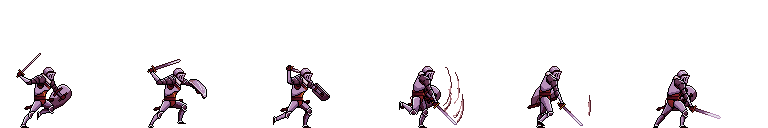
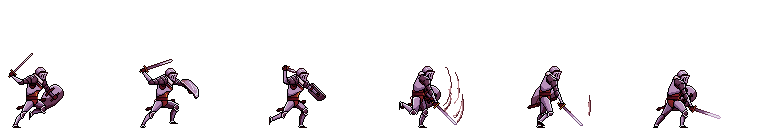
Review tuning: slow attack anims (fps 12->8/10), re-export gorgon/knight art
Visual-review pass over the explicit enemy roster:
- attack frame rates 12 -> 8 or 10 (and playerWalk 12 -> 10) so swings read clearly
- re-export gorgon 1/2/3 idle+attack and knight 1/2/3 walk+attack art
- drop now-unneeded forwardPx nudges on gorgon idle/attack (the re-exported art is centred)

Claude-Session: https://claude.ai/code/session_01GGDuKufsvQE8QdpiKXCWnN

Changed region(s): [[0.0, 0.4062, 0.0938, 1.0], [0.1562, 0.4688, 0.2812, 1.0], [0.3438, 0.5, 0.4375, 1.0]]

diff --git a/src/core/assets/registry.ts b/src/core/assets/registry.ts
@@ -43,7 +43,7 @@ export const GAME_ASSETS: readonly AssetDescriptor[] = [
   asset(AssetKeys.world1Floor, [32, 32], 'top-down stone/grass', 'Walkable floor tile'),
   asset(AssetKeys.world1Wall, [32, 32], 'solid rock, dark outline', 'Non-walkable obstacle'),
   asset(AssetKeys.playerIdle, [128, 128, 0.5], 'anime fox-girl, right-facing', 'Player idle', { frameCount: 6, fps: 6, downPx: -6 }),
-  asset(AssetKeys.playerWalk, [128, 128, 0.5], 'same character, right-facing', 'Player walk', { frameCount: 8, fps: 12, downPx: -6 }),
+  asset(AssetKeys.playerWalk, [128, 128, 0.5], 'same character, right-facing', 'Player walk', { frameCount: 8, fps: 10, downPx: -6 }),
   asset(AssetKeys.playerReady, [128, 128, 0.5], 'same character, card-ready stance, right-facing', 'Player ready/card stance', { frameCount: 2, fps: 6, downPx: -6, forwardPx: 8 }),
   asset(AssetKeys.playerAttack1, [128, 128, 0.5], 'same character, attack A, right-facing', 'Player attack variant 1', { frameCount: 3, fps: 8, downPx: -6, forwardPx: 8 }),
   asset(AssetKeys.playerAttack2, [128, 128, 0.5], 'same character, attack B, right-facing', 'Player attack variant 2', { frameCount: 7, fps: 12, downPx: -6 }),
@@ -73,140 +73,140 @@ export const GAME_ASSETS: readonly AssetDescriptor[] = [
   // copper_golem
   asset(AssetKeys.copperGolemIdle, [128, 128, 0.5], 'copper_golem idle', 'Enemy copper_golem idle', { frameCount: 6, fps: 6, downPx: -6, forwardPx: 4 }),
   asset(AssetKeys.copperGolemWalk, [128, 128, 0.5], 'copper_golem walk', 'Enemy copper_golem walk', { frameCount: 8, fps: 10, downPx: -6, forwardPx: 4 }),
-  asset(AssetKeys.copperGolemAttack, [128, 128, 0.5], 'copper_golem attack', 'Enemy copper_golem attack', { frameCount: 7, fps: 12, downPx: -6, forwardPx: 4 }),
+  asset(AssetKeys.copperGolemAttack, [128, 128, 0.5], 'copper_golem attack', 'Enemy copper_golem attack', { frameCount: 7, fps: 10, downPx: -6, forwardPx: 4 }),
   asset(AssetKeys.copperGolemHurt, [128, 128, 0.5], 'copper_golem hurt', 'Enemy copper_golem hurt'),
   asset(AssetKeys.copperGolemDeath, [128, 128, 0.5], 'copper_golem death', 'Enemy copper_golem death'),
 
   // demon_2
   asset(AssetKeys.demon2Idle, [128, 128, 0.5], 'demon_2 idle', 'Enemy demon_2 idle', { frameCount: 6, fps: 6, downPx: -6 }),
   asset(AssetKeys.demon2Walk, [128, 128, 0.5], 'demon_2 walk', 'Enemy demon_2 walk', { frameCount: 12, fps: 10, downPx: -6 }),
-  asset(AssetKeys.demon2Attack, [128, 128, 0.5], 'demon_2 attack', 'Enemy demon_2 attack', { frameCount: 5, fps: 12, downPx: -6 }),
+  asset(AssetKeys.demon2Attack, [128, 128, 0.5], 'demon_2 attack', 'Enemy demon_2 attack', { frameCount: 5, fps: 8, downPx: -6 }),
   asset(AssetKeys.demon2Hurt, [128, 128, 0.5], 'demon_2 hurt', 'Enemy demon_2 hurt'),
   asset(AssetKeys.demon2Death, [128, 128, 0.5], 'demon_2 death', 'Enemy demon_2 death'),
 
   // demon_3
   asset(AssetKeys.demon3Idle, [128, 128, 0.5], 'demon_3 idle', 'Enemy demon_3 idle', { frameCount: 6, fps: 6, downPx: -6 }),
   asset(AssetKeys.demon3Walk, [128, 128, 0.5], 'demon_3 walk', 'Enemy demon_3 walk', { frameCount: 12, fps: 10, downPx: -6 }),
-  asset(AssetKeys.demon3Attack, [128, 128, 0.5], 'demon_3 attack', 'Enemy demon_3 attack', { frameCount: 5, fps: 12, downPx: -6 }),
+  asset(AssetKeys.demon3Attack, [128, 128, 0.5], 'demon_3 attack', 'Enemy demon_3 attack', { frameCount: 5, fps: 10, downPx: -6 }),
   asset(AssetKeys.demon3Hurt, [128, 128, 0.5], 'demon_3 hurt', 'Enemy demon_3 hurt'),
   asset(AssetKeys.demon3Death, [128, 128, 0.5], 'demon_3 death', 'Enemy demon_3 death'),
 
   // dragon_1
   asset(AssetKeys.dragon1Idle, [256, 256, 0.5], 'dragon_1 idle', 'Enemy dragon_1 idle', { frameCount: 8, fps: 6, downPx: -16 }),
   asset(AssetKeys.dragon1Walk, [256, 256, 0.5], 'dragon_1 walk', 'Enemy dragon_1 walk', { frameCount: 12, fps: 10, downPx: -16, forwardPx: 6 }),
-  asset(AssetKeys.dragon1Attack, [256, 256, 0.5], 'dragon_1 attack', 'Enemy dragon_1 attack', { frameCount: 10, fps: 12, downPx: -16, forwardPx: 18 }),
+  asset(AssetKeys.dragon1Attack, [256, 256, 0.5], 'dragon_1 attack', 'Enemy dragon_1 attack', { frameCount: 10, fps: 10, downPx: -16, forwardPx: 18 }),
   asset(AssetKeys.dragon1Hurt, [256, 256, 0.5], 'dragon_1 hurt', 'Enemy dragon_1 hurt'),
   asset(AssetKeys.dragon1Death, [256, 256, 0.5], 'dragon_1 death', 'Enemy dragon_1 death'),
 
   // dragon_2
   asset(AssetKeys.dragon2Idle, [256, 256, 0.5], 'dragon_2 idle', 'Enemy dragon_2 idle', { frameCount: 8, fps: 6, downPx: -16 }),
   asset(AssetKeys.dragon2Walk, [256, 256, 0.5], 'dragon_2 walk', 'Enemy dragon_2 walk', { frameCount: 12, fps: 10, downPx: -16, forwardPx: 6 }),
-  asset(AssetKeys.dragon2Attack, [256, 256, 0.5], 'dragon_2 attack', 'Enemy dragon_2 attack', { frameCount: 10, fps: 12, downPx: -16, forwardPx: 18 }),
+  asset(AssetKeys.dragon2Attack, [256, 256, 0.5], 'dragon_2 attack', 'Enemy dragon_2 attack', { frameCount: 10, fps: 10, downPx: -16, forwardPx: 18 }),
   asset(AssetKeys.dragon2Hurt, [256, 256, 0.5], 'dragon_2 hurt', 'Enemy dragon_2 hurt'),
   asset(AssetKeys.dragon2Death, [256, 256, 0.5], 'dragon_2 death', 'Enemy dragon_2 death'),
 
   // dragon_3
   asset(AssetKeys.dragon3Idle, [256, 256, 0.5], 'dragon_3 idle', 'Enemy dragon_3 idle', { frameCount: 8, fps: 6, downPx: -16 }),
   asset(AssetKeys.dragon3Walk, [256, 256, 0.5], 'dragon_3 walk', 'Enemy dragon_3 walk', { frameCount: 12, fps: 10, downPx: -16, forwardPx: 6 }),
-  asset(AssetKeys.dragon3Attack, [256, 256, 0.5], 'dragon_3 attack', 'Enemy dragon_3 attack', { frameCount: 10, fps: 12, downPx: -16, forwardPx: 18 }),
+  asset(AssetKeys.dragon3Attack, [256, 256, 0.5], 'dragon_3 attack', 'Enemy dragon_3 attack', { frameCount: 10, fps: 10, downPx: -16, forwardPx: 18 }),
   asset(AssetKeys.dragon3Hurt, [256, 256, 0.5], 'dragon_3 hurt', 'Enemy dragon_3 hurt'),
   asset(AssetKeys.dragon3Death, [256, 256, 0.5], 'dragon_3 death', 'Enemy dragon_3 death'),
 
   // elf_queen_1
   asset(AssetKeys.elfQueen1Idle, [128, 128, 0.5], 'elf_queen_1 idle', 'Enemy elf_queen_1 idle', { frameCount: 7, fps: 6, downPx: -6 }),
   asset(AssetKeys.elfQueen1Walk, [128, 128, 0.5], 'elf_queen_1 walk', 'Enemy elf_queen_1 walk', { frameCount: 12, fps: 10, downPx: -6 }),
-  asset(AssetKeys.elfQueen1Attack, [128, 128, 0.5], 'elf_queen_1 attack', 'Enemy elf_queen_1 attack', { frameCount: 14, fps: 12, downPx: -6 }),
+  asset(AssetKeys.elfQueen1Attack, [128, 128, 0.5], 'elf_queen_1 attack', 'Enemy elf_queen_1 attack', { frameCount: 14, fps: 8, downPx: -6 }),
   asset(AssetKeys.elfQueen1Hurt, [128, 128, 0.5], 'elf_queen_1 hurt', 'Enemy elf_queen_1 hurt'),
   asset(AssetKeys.elfQueen1Death, [128, 128, 0.5], 'elf_queen_1 death', 'Enemy elf_queen_1 death'),
 
   // elf_queen_2
   asset(AssetKeys.elfQueen2Idle, [128, 128, 0.5], 'elf_queen_2 idle', 'Enemy elf_queen_2 idle', { frameCount: 6, fps: 6, downPx: -2 }),
   asset(AssetKeys.elfQueen2Walk, [128, 128, 0.5], 'elf_queen_2 walk', 'Enemy elf_queen_2 walk', { frameCount: 5, fps: 10, downPx: 0 }),
-  asset(AssetKeys.elfQueen2Attack, [128, 128, 0.5], 'elf_queen_2 attack', 'Enemy elf_queen_2 attack', { frameCount: 6, fps: 12, downPx: -2, forwardPx: 4 }),
+  asset(AssetKeys.elfQueen2Attack, [128, 128, 0.5], 'elf_queen_2 attack', 'Enemy elf_queen_2 attack', { frameCount: 6, fps: 10, downPx: -2, forwardPx: 4 }),
   asset(AssetKeys.elfQueen2Hurt, [128, 128, 0.5], 'elf_queen_2 hurt', 'Enemy elf_queen_2 hurt'),
   asset(AssetKeys.elfQueen2Death, [128, 128, 0.5], 'elf_queen_2 death', 'Enemy elf_queen_2 death'),
 
   // goblin_1
   asset(AssetKeys.goblin1Idle, [128, 128, 0.5], 'goblin_1 idle', 'Enemy goblin_1 idle', { frameCount: 6, fps: 6, downPx: -6 }),
   asset(AssetKeys.goblin1Walk, [128, 128, 0.5], 'goblin_1 walk', 'Enemy goblin_1 walk', { frameCount: 8, fps: 10, downPx: -6 }),
-  asset(AssetKeys.goblin1Attack, [128, 128, 0.5], 'goblin_1 attack', 'Enemy goblin_1 attack', { frameCount: 6, fps: 12, downPx: -6, forwardPx: 4 }),
+  asset(AssetKeys.goblin1Attack, [128, 128, 0.5], 'goblin_1 attack', 'Enemy goblin_1 attack', { frameCount: 6, fps: 10, downPx: -6, forwardPx: 4 }),
   asset(AssetKeys.goblin1Hurt, [128, 128, 0.5], 'goblin_1 hurt', 'Enemy goblin_1 hurt'),
   asset(AssetKeys.goblin1Death, [128, 128, 0.5], 'goblin_1 death', 'Enemy goblin_1 death'),
 
   // goblin_2
   asset(AssetKeys.goblin2Idle, [128, 128, 0.5], 'goblin_2 idle', 'Enemy goblin_2 idle', { frameCount: 6, fps: 6, downPx: -6 }),
   asset(AssetKeys.goblin2Walk, [128, 128, 0.5], 'goblin_2 walk', 'Enemy goblin_2 walk', { frameCount: 8, fps: 10, downPx: -6 }),
-  asset(AssetKeys.goblin2Attack, [128, 128, 0.5], 'goblin_2 attack', 'Enemy goblin_2 attack', { frameCount: 7, fps: 12, downPx: -6, forwardPx: -4 }),
+  asset(AssetKeys.goblin2Attack, [128, 128, 0.5], 'goblin_2 attack', 'Enemy goblin_2 attack', { frameCount: 7, fps: 10, downPx: -6, forwardPx: -4 }),
   asset(AssetKeys.goblin2Hurt, [128, 128, 0.5], 'goblin_2 hurt', 'Enemy goblin_2 hurt'),
   asset(AssetKeys.goblin2Death, [128, 128, 0.5], 'goblin_2 death', 'Enemy goblin_2 death'),
 
   // goblin_3
   asset(AssetKeys.goblin3Idle, [128, 128, 0.5], 'goblin_3 idle', 'Enemy goblin_3 idle', { frameCount: 6, fps: 6, downPx: -6 }),
   asset(AssetKeys.goblin3Walk, [128, 128, 0.5], 'goblin_3 walk', 'Enemy goblin_3 walk', { frameCount: 7, fps: 10, downPx: -6 }),
-  asset(AssetKeys.goblin3Attack, [128, 128, 0.5], 'goblin_3 attack', 'Enemy goblin_3 attack', { frameCount: 6, fps: 12, downPx: -6 }),
+  asset(AssetKeys.goblin3Attack, [128, 128, 0.5], 'goblin_3 attack', 'Enemy goblin_3 attack', { frameCount: 6, fps: 10, downPx: -6 }),
   asset(AssetKeys.goblin3Hurt, [128, 128, 0.5], 'goblin_3 hurt', 'Enemy goblin_3 hurt'),
   asset(AssetKeys.goblin3Death, [128, 128, 0.5], 'goblin_3 death', 'Enemy goblin_3 death'),
 
   // gorgon_1
-  asset(AssetKeys.gorgon1Idle, [128, 128, 0.5], 'gorgon_1 idle', 'Enemy gorgon_1 idle', { frameCount: 7, fps: 6, downPx: -6, forwardPx: 6 }),
+  asset(AssetKeys.gorgon1Idle, [128, 128, 0.5], 'gorgon_1 idle', 'Enemy gorgon_1 idle', { frameCount: 7, fps: 6, downPx: -6 }),
   asset(AssetKeys.gorgon1Walk, [128, 128, 0.5], 'gorgon_1 walk', 'Enemy gorgon_1 walk', { frameCount: 7, fps: 10, downPx: -6 }),
-  asset(AssetKeys.gorgon1Attack, [128, 128, 0.5], 'gorgon_1 attack', 'Enemy gorgon_1 attack', { frameCount: 7, fps: 12, downPx: -6, forwardPx: -2 }),
+  asset(AssetKeys.gorgon1Attack, [128, 128, 0.5], 'gorgon_1 attack', 'Enemy gorgon_1 attack', { frameCount: 7, fps: 10, downPx: -6 }),
   asset(AssetKeys.gorgon1Hurt, [128, 128, 0.5], 'gorgon_1 hurt', 'Enemy gorgon_1 hurt'),
   asset(AssetKeys.gorgon1Death, [128, 128, 0.5], 'gorgon_1 death', 'Enemy gorgon_1 death'),
 
   // gorgon_2
   asset(AssetKeys.gorgon2Idle, [128, 128, 0.5], 'gorgon_2 idle', 'Enemy gorgon_2 idle', { frameCount: 7, fps: 6, downPx: -6 }),
   asset(AssetKeys.gorgon2Walk, [128, 128, 0.5], 'gorgon_2 walk', 'Enemy gorgon_2 walk', { frameCount: 7, fps: 10, downPx: -6 }),
-  asset(AssetKeys.gorgon2Attack, [128, 128, 0.5], 'gorgon_2 attack', 'Enemy gorgon_2 attack', { frameCount: 7, fps: 12, downPx: -6, forwardPx: 2 }),
+  asset(AssetKeys.gorgon2Attack, [128, 128, 0.5], 'gorgon_2 attack', 'Enemy gorgon_2 attack', { frameCount: 7, fps: 10, downPx: -6 }),
   asset(AssetKeys.gorgon2Hurt, [128, 128, 0.5], 'gorgon_2 hurt', 'Enemy gorgon_2 hurt'),
   asset(AssetKeys.gorgon2Death, [128, 128, 0.5], 'gorgon_2 death', 'Enemy gorgon_2 death'),
 
   // gorgon_3
-  asset(AssetKeys.gorgon3Idle, [128, 128, 0.5], 'gorgon_3 idle', 'Enemy gorgon_3 idle', { frameCount: 7, fps: 6, downPx: -6, forwardPx: 4 }),
+  asset(AssetKeys.gorgon3Idle, [128, 128, 0.5], 'gorgon_3 idle', 'Enemy gorgon_3 idle', { frameCount: 7, fps: 6, downPx: -6 }),
   asset(AssetKeys.gorgon3Walk, [128, 128, 0.5], 'gorgon_3 walk', 'Enemy gorgon_3 walk', { frameCount: 7, fps: 10, downPx: -6 }),
-  asset(AssetKeys.gorgon3Attack, [128, 128, 0.5], 'gorgon_3 attack', 'Enemy gorgon_3 attack', { frameCount: 7, fps: 12, downPx: -6, forwardPx: -4 }),
+  asset(AssetKeys.gorgon3Attack, [128, 128, 0.5], 'gorgon_3 attack', 'Enemy gorgon_3 attack', { frameCount: 7, fps: 10, downPx: -6 }),
   asset(AssetKeys.gorgon3Hurt, [128, 128, 0.5], 'gorgon_3 hurt', 'Enemy gorgon_3 hurt'),
   asset(AssetKeys.gorgon3Death, [128, 128, 0.5], 'gorgon_3 death', 'Enemy gorgon_3 death'),
 
   // knight_1
-  asset(AssetKeys.knight1Idle, [128, 128, 0.5], 'knight_1 idle', 'Enemy knight_1 idle', { frameCount: 4, fps: 6, downPx: -6, forwardPx: 16 }),
+  asset(AssetKeys.knight1Idle, [128, 128, 0.5], 'knight_1 idle', 'Enemy knight_1 idle', { frameCount: 4, fps: 4, downPx: -6, forwardPx: 16 }),
   asset(AssetKeys.knight1Walk, [128, 128, 0.5], 'knight_1 walk', 'Enemy knight_1 walk', { frameCount: 8, fps: 10, downPx: -6, forwardPx: 16 }),
-  asset(AssetKeys.knight1Attack, [128, 128, 0.5], 'knight_1 attack', 'Enemy knight_1 attack', { frameCount: 6, fps: 12, downPx: -6, forwardPx: 14 }),
+  asset(AssetKeys.knight1Attack, [128, 128, 0.5], 'knight_1 attack', 'Enemy knight_1 attack', { frameCount: 6, fps: 8, downPx: -6, forwardPx: 14 }),
   asset(AssetKeys.knight1Hurt, [128, 128, 0.5], 'knight_1 hurt', 'Enemy knight_1 hurt'),
   asset(AssetKeys.knight1Death, [128, 128, 0.5], 'knight_1 death', 'Enemy knight_1 death'),
 
   // knight_2
-  asset(AssetKeys.knight2Idle, [128, 128, 0.5], 'knight_2 idle', 'Enemy knight_2 idle', { frameCount: 4, fps: 6, downPx: -6, forwardPx: 16 }),
+  asset(AssetKeys.knight2Idle, [128, 128, 0.5], 'knight_2 idle', 'Enemy knight_2 idle', { frameCount: 4, fps: 4, downPx: -6, forwardPx: 16 }),
   asset(AssetKeys.knight2Walk, [128, 128, 0.5], 'knight_2 walk', 'Enemy knight_2 walk', { frameCount: 8, fps: 10, downPx: -6, forwardPx: 16 }),
-  asset(AssetKeys.knight2Attack, [128, 128, 0.5], 'knight_2 attack', 'Enemy knight_2 attack', { frameCount: 6, fps: 12, downPx: -6, forwardPx: 14 }),
+  asset(AssetKeys.knight2Attack, [128, 128, 0.5], 'knight_2 attack', 'Enemy knight_2 attack', { frameCount: 6, fps: 8, downPx: -6, forwardPx: 14 }),
   asset(AssetKeys.knight2Hurt, [128, 128, 0.5], 'knight_2 hurt', 'Enemy knight_2 hurt'),
   asset(AssetKeys.knight2Death, [128, 128, 0.5], 'knight_2 death', 'Enemy knight_2 death'),
 
   // knight_3
-  asset(AssetKeys.knight3Idle, [128, 128, 0.5], 'knight_3 idle', 'Enemy knight_3 idle', { frameCount: 4, fps: 6, downPx: -6, forwardPx: 16 }),
+  asset(AssetKeys.knight3Idle, [128, 128, 0.5], 'knight_3 idle', 'Enemy knight_3 idle', { frameCount: 4, fps: 4, downPx: -6, forwardPx: 16 }),
   asset(AssetKeys.knight3Walk, [128, 128, 0.5], 'knight_3 walk', 'Enemy knight_3 walk', { frameCount: 8, fps: 10, downPx: -6, forwardPx: 16 }),
-  asset(AssetKeys.knight3Attack, [128, 128, 0.5], 'knight_3 attack', 'Enemy knight_3 attack', { frameCount: 6, fps: 12, downPx: -6, forwardPx: 14 }),
+  asset(AssetKeys.knight3Attack, [128, 128, 0.5], 'knight_3 attack', 'Enemy knight_3 attack', { frameCount: 6, fps: 8, downPx: -6, forwardPx: 14 }),
   asset(AssetKeys.knight3Hurt, [128, 128, 0.5], 'knight_3 hurt', 'Enemy knight_3 hurt'),
   asset(AssetKeys.knight3Death, [128, 128, 0.5], 'knight_3 death', 'Enemy knight_3 death'),
 
   // lava_golem
   asset(AssetKeys.lavaGolemIdle, [128, 128, 0.5], 'lava_golem idle', 'Enemy lava_golem idle', { frameCount: 6, fps: 6, downPx: -6 }),
   asset(AssetKeys.lavaGolemWalk, [128, 128, 0.5], 'lava_golem walk', 'Enemy lava_golem walk', { frameCount: 10, fps: 10, downPx: -6 }),
-  asset(AssetKeys.lavaGolemAttack, [128, 128, 0.5], 'lava_golem attack', 'Enemy lava_golem attack', { frameCount: 7, fps: 12, downPx: -6, forwardPx: 4 }),
+  asset(AssetKeys.lavaGolemAttack, [128, 128, 0.5], 'lava_golem attack', 'Enemy lava_golem attack', { frameCount: 7, fps: 10, downPx: -6, forwardPx: 4 }),
   asset(AssetKeys.lavaGolemHurt, [128, 128, 0.5], 'lava_golem hurt', 'Enemy lava_golem hurt'),
   asset(AssetKeys.lavaGolemDeath, [128, 128, 0.5], 'lava_golem death', 'Enemy lava_golem death'),
 
   // mimic_1
   asset(AssetKeys.mimic1Idle, [128, 128, 0.5], 'mimic_1 idle', 'Enemy mimic_1 idle', { frameCount: 1, fps: 6, downPx: -6, forwardPx: -2 }),
   asset(AssetKeys.mimic1Walk, [128, 128, 0.5], 'mimic_1 walk', 'Enemy mimic_1 walk', { frameCount: 11, fps: 10, downPx: -6 }),
-  asset(AssetKeys.mimic1Attack, [128, 128, 0.5], 'mimic_1 attack', 'Enemy mimic_1 attack', { frameCount: 7, fps: 12, downPx: -6, forwardPx: 4 }),
+  asset(AssetKeys.mimic1Attack, [128, 128, 0.5], 'mimic_1 attack', 'Enemy mimic_1 attack', { frameCount: 7, fps: 10, downPx: -6, forwardPx: 4 }),
   asset(AssetKeys.mimic1Hurt, [128, 128, 0.5], 'mimic_1 hurt', 'Enemy mimic_1 hurt'),
   asset(AssetKeys.mimic1Death, [128, 128, 0.5], 'mimic_1 death', 'Enemy mimic_1 death'),
 
   // mimic_2
   asset(AssetKeys.mimic2Idle, [128, 128, 0.5], 'mimic_2 idle', 'Enemy mimic_2 idle', { frameCount: 1, fps: 6, downPx: -6 }),
   asset(AssetKeys.mimic2Walk, [128, 128, 0.5], 'mimic_2 walk', 'Enemy mimic_2 walk', { frameCount: 9, fps: 10, downPx: -6 }),
-  asset(AssetKeys.mimic2Attack, [128, 128, 0.5], 'mimic_2 attack', 'Enemy mimic_2 attack', { frameCount: 4, fps: 12, downPx: -6, forwardPx: 4 }),
+  asset(AssetKeys.mimic2Attack, [128, 128, 0.5], 'mimic_2 attack', 'Enemy mimic_2 attack', { frameCount: 4, fps: 8, downPx: -6, forwardPx: 4 }),
   asset(AssetKeys.mimic2Hurt, [128, 128, 0.5], 'mimic_2 hurt', 'Enemy mimic_2 hurt'),
   asset(AssetKeys.mimic2Death, [128, 128, 0.5], 'mimic_2 death', 'Enemy mimic_2 death'),
 
@@ -220,49 +220,49 @@ export const GAME_ASSETS: readonly AssetDescriptor[] = [
   // minotaur_1
   asset(AssetKeys.minotaur1Idle, [128, 128, 0.5], 'minotaur_1 idle', 'Enemy minotaur_1 idle', { frameCount: 10, fps: 6, downPx: -6, forwardPx: 2 }),
   asset(AssetKeys.minotaur1Walk, [128, 128, 0.5], 'minotaur_1 walk', 'Enemy minotaur_1 walk', { frameCount: 12, fps: 10, downPx: -6, forwardPx: 2 }),
-  asset(AssetKeys.minotaur1Attack, [128, 128, 0.5], 'minotaur_1 attack', 'Enemy minotaur_1 attack', { frameCount: 5, fps: 12, downPx: -6, forwardPx: 6 }),
+  asset(AssetKeys.minotaur1Attack, [128, 128, 0.5], 'minotaur_1 attack', 'Enemy minotaur_1 attack', { frameCount: 5, fps: 8, downPx: -6, forwardPx: 6 }),
   asset(AssetKeys.minotaur1Hurt, [128, 128, 0.5], 'minotaur_1 hurt', 'Enemy minotaur_1 hurt'),
   asset(AssetKeys.minotaur1Death, [128, 128, 0.5], 'minotaur_1 death', 'Enemy minotaur_1 death'),
 
   // minotaur_2
   asset(AssetKeys.minotaur2Idle, [128, 128, 0.5], 'minotaur_2 idle', 'Enemy minotaur_2 idle', { frameCount: 10, fps: 6, downPx: -6, forwardPx: 2 }),
   asset(AssetKeys.minotaur2Walk, [128, 128, 0.5], 'minotaur_2 walk', 'Enemy minotaur_2 walk', { frameCount: 12, fps: 10, downPx: -6, forwardPx: 2 }),
-  asset(AssetKeys.minotaur2Attack, [128, 128, 0.5], 'minotaur_2 attack', 'Enemy minotaur_2 attack', { frameCount: 5, fps: 12, downPx: -6, forwardPx: 4 }),
+  asset(AssetKeys.minotaur2Attack, [128, 128, 0.5], 'minotaur_2 attack', 'Enemy minotaur_2 attack', { frameCount: 5, fps: 8, downPx: -6, forwardPx: 4 }),
   asset(AssetKeys.minotaur2Hurt, [128, 128, 0.5], 'minotaur_2 hurt', 'Enemy minotaur_2 hurt'),
   asset(AssetKeys.minotaur2Death, [128, 128, 0.5], 'minotaur_2 death', 'Enemy minotaur_2 death'),
 
   // minotaur_3
   asset(AssetKeys.minotaur3Idle, [128, 128, 0.5], 'minotaur_3 idle', 'Enemy minotaur_3 idle', { frameCount: 10, fps: 6, downPx: -6, forwardPx: 2 }),
   asset(AssetKeys.minotaur3Walk, [128, 128, 0.5], 'minotaur_3 walk', 'Enemy minotaur_3 walk', { frameCount: 12, fps: 10, downPx: -6, forwardPx: 2 }),
-  asset(AssetKeys.minotaur3Attack, [128, 128, 0.5], 'minotaur_3 attack', 'Enemy minotaur_3 attack', { frameCount: 4, fps: 12, downPx: -6, forwardPx: 4 }),
+  asset(AssetKeys.minotaur3Attack, [128, 128, 0.5], 'minotaur_3 attack', 'Enemy minotaur_3 attack', { frameCount: 4, fps: 8, downPx: -6, forwardPx: 4 }),
   asset(AssetKeys.minotaur3Hurt, [128, 128, 0.5], 'minotaur_3 hurt', 'Enemy minotaur_3 hurt'),
   asset(AssetKeys.minotaur3Death, [128, 128, 0.5], 'minotaur_3 death', 'Enemy minotaur_3 death'),
 
   // orc_warrior_brown
   asset(AssetKeys.orcWarriorBrownIdle, [128, 128, 0.5], 'orc_warrior_brown idle', 'Enemy orc_warrior_brown idle', { frameCount: 7, fps: 6, downPx: -6 }),
   asset(AssetKeys.orcWarriorBrownWalk, [128, 128, 0.5], 'orc_warrior_brown walk', 'Enemy orc_warrior_brown walk', { frameCount: 8, fps: 10, downPx: -6 }),
-  asset(AssetKeys.orcWarriorBrownAttack, [128, 128, 0.5], 'orc_warrior_brown attack', 'Enemy orc_warrior_brown attack', { frameCount: 5, fps: 12, downPx: -6, forwardPx: -2 }),
+  asset(AssetKeys.orcWarriorBrownAttack, [128, 128, 0.5], 'orc_warrior_brown attack', 'Enemy orc_warrior_brown attack', { frameCount: 5, fps: 8, downPx: -6, forwardPx: -2 }),
   asset(AssetKeys.orcWarriorBrownHurt, [128, 128, 0.5], 'orc_warrior_brown hurt', 'Enemy orc_warrior_brown hurt'),
   asset(AssetKeys.orcWarriorBrownDeath, [128, 128, 0.5], 'orc_warrior_brown death', 'Enemy orc_warrior_brown death'),
 
   // orc_warrior_green
   asset(AssetKeys.orcWarriorGreenIdle, [128, 128, 0.5], 'orc_warrior_green idle', 'Enemy orc_warrior_green idle', { frameCount: 7, fps: 6, downPx: -6 }),
   asset(AssetKeys.orcWarriorGreenWalk, [128, 128, 0.5], 'orc_warrior_green walk', 'Enemy orc_warrior_green walk', { frameCount: 8, fps: 10, downPx: -6 }),
-  asset(AssetKeys.orcWarriorGreenAttack, [128, 128, 0.5], 'orc_warrior_green attack', 'Enemy orc_warrior_green attack', { frameCount: 5, fps: 12, downPx: -6, forwardPx: 2 }),
+  asset(AssetKeys.orcWarriorGreenAttack, [128, 128, 0.5], 'orc_warrior_green attack', 'Enemy orc_warrior_green attack', { frameCount: 5, fps: 8, downPx: -6, forwardPx: 2 }),
   asset(AssetKeys.orcWarriorGreenHurt, [128, 128, 0.5], 'orc_warrior_green hurt', 'Enemy orc_warrior_green hurt'),
   asset(AssetKeys.orcWarriorGreenDeath, [128, 128, 0.5], 'orc_warrior_green death', 'Enemy orc_warrior_green death'),
 
   // orc_woman
   asset(AssetKeys.orcWomanIdle, [128, 128, 0.5], 'orc_woman idle', 'Enemy orc_woman idle', { frameCount: 6, fps: 6, downPx: -6 }),
   asset(AssetKeys.orcWomanWalk, [128, 128, 0.5], 'orc_woman walk', 'Enemy orc_woman walk', { frameCount: 8, fps: 10, downPx: -6 }),
-  asset(AssetKeys.orcWomanAttack, [128, 128, 0.5], 'orc_woman attack', 'Enemy orc_woman attack', { frameCount: 6, fps: 12, downPx: -6, forwardPx: 2 }),
+  asset(AssetKeys.orcWomanAttack, [128, 128, 0.5], 'orc_woman attack', 'Enemy orc_woman attack', { frameCount: 6, fps: 8, downPx: -6, forwardPx: 2 }),
   asset(AssetKeys.orcWomanHurt, [128, 128, 0.5], 'orc_woman hurt', 'Enemy orc_woman hurt'),
   asset(AssetKeys.orcWomanDeath, [128, 128, 0.5], 'orc_woman death', 'Enemy orc_woman death'),
 
   // stone_golem
   asset(AssetKeys.stoneGolemIdle, [128, 128, 0.5], 'stone_golem idle', 'Enemy stone_golem idle', { frameCount: 6, fps: 6, downPx: -6 }),
   asset(AssetKeys.stoneGolemWalk, [128, 128, 0.5], 'stone_golem walk', 'Enemy stone_golem walk', { frameCount: 6, fps: 10, downPx: -6 }),
-  asset(AssetKeys.stoneGolemAttack, [128, 128, 0.5], 'stone_golem attack', 'Enemy stone_golem attack', { frameCount: 5, fps: 12, downPx: -6 }),
+  asset(AssetKeys.stoneGolemAttack, [128, 128, 0.5], 'stone_golem attack', 'Enemy stone_golem attack', { frameCount: 5, fps: 8, downPx: -6 }),
   asset(AssetKeys.stoneGolemHurt, [128, 128, 0.5], 'stone_golem hurt', 'Enemy stone_golem hurt'),
   asset(AssetKeys.stoneGolemDeath, [128, 128, 0.5], 'stone_golem death', 'Enemy stone_golem death'),
 ];
